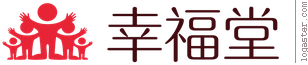
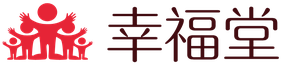
Q&Aページの調整、ヘッダーロゴの修正

diff --git a/WebProject/src/servlet/Q_A_Servlet.java b/WebProject/src/servlet/Q_A_Servlet.java
@@ -1,0 +1,52 @@
+package servlet;
+
+import java.io.IOException;
+
+import javax.servlet.RequestDispatcher;
+import javax.servlet.ServletException;
+import javax.servlet.annotation.WebServlet;
+import javax.servlet.http.HttpServlet;
+import javax.servlet.http.HttpServletRequest;
+import javax.servlet.http.HttpServletResponse;
+
+/**
+ * Servlet implementation class Q_A_Servlet
+ */
+@WebServlet("/Q&A")
+public class Q_A_Servlet extends HttpServlet {
+	private static final long serialVersionUID = 1L;
+
+    /**
+     * @see HttpServlet#HttpServlet()
+     */
+    public Q_A_Servlet() {
+        super();
+        // TODO Auto-generated constructor stub
+    }
+
+	/**
+	 * @see HttpServlet#doGet(HttpServletRequest request, HttpServletResponse response)
+	 */
+	protected void doGet(HttpServletRequest request, HttpServletResponse response) throws ServletException, IOException {
+		// TODO Auto-generated method stub
+		try {
+			request.setCharacterEncoding("UTF-8");
+			RequestDispatcher dispatcher = request.getRequestDispatcher("/WEB-INF/jsp/Q&A.jsp");
+			dispatcher.forward(request, response);
+		} catch (Exception e) {
+			// TODO: handle exception
+			e.printStackTrace();
+			response.sendRedirect("TOP");
+		}
+	}
+
+
+	/**
+	 * @see HttpServlet#doPost(HttpServletRequest request, HttpServletResponse response)
+	 */
+	protected void doPost(HttpServletRequest request, HttpServletResponse response) throws ServletException, IOException {
+		// TODO Auto-generated method stub
+		doGet(request, response);
+	}
+
+}
